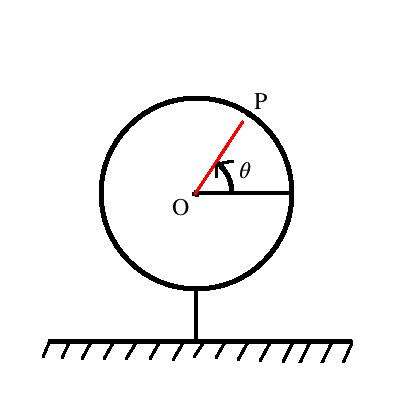
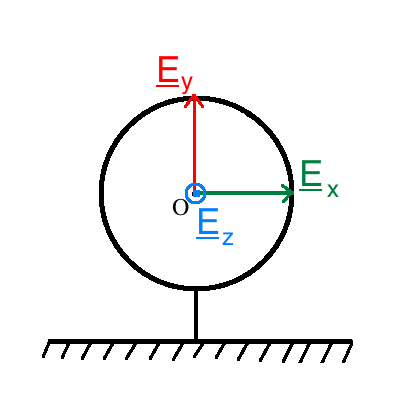
worked on analytical dynamics notes

Changed region(s): [[0.39, 0.12, 0.84, 0.63], [0.63, 0.21, 0.69, 0.27], [0.57, 0.3, 0.63, 0.36]]

diff --git a/notes/analytical_dynamics/analytical_dynamics_main.html b/notes/analytical_dynamics/analytical_dynamics_main.html
@@ -175,7 +175,7 @@ title: Analytical Dynamics
 </blockquote>
 <blockquote>
 <ul>
-<li>First Transport Theorem Example:</li>
+<li><strong>First Transport Theorem Example:</strong></li>
 </ul>
 </blockquote>
 <blockquote>
@@ -233,6 +233,46 @@ height="125"/>
 <li><img style="vertical-align:middle" src="http://chart.apis.google.com/chart?cht=tx&amp;chl=%5Cunderline%7BE%7D_%7By%7D" alt="\underline{E}_{y}" title="\underline{E}_{y}" /> = <img style="vertical-align:middle" src="http://chart.apis.google.com/chart?cht=tx&amp;chl=%5Cunderline%7BE%7D_%7Bz%7D%20%5Ctime%20%5Cunderline%7BE%7D_%7Bx%7D" alt="\underline{E}_{z} \time \underline{E}_{x}" title="\underline{E}_{z} \time \underline{E}_{x}" /></li>
 </ul></li>
 </ul>
+</blockquote>
+</blockquote>
+<div align="center">
+<table class="image">
+<tr>
+<td>
+<img src="./img/ground_ref_frame.png"
+alt="Ground Reference Frame" title="Ground Reference Frame" width="200"
+height="200"/>
+</td>
+</tr>
+</table>
+</div>
+<blockquote>
+<blockquote>
+<ul>
+<li>Now to find the velocity and acceleration of point P in the disk reference frame we take the time derivative of the vector from the origin O to point P (<img style="vertical-align:middle" src="http://chart.apis.google.com/chart?cht=tx&amp;chl=%5Cunderline%7Br%7D%20%3D%20%5Cunderline%7BOP%7D%20%3D%20r%5Cunderline%7Be%7D_%7Br%7D" alt="\underline{r} = \underline{OP} = r\underline{e}_{r}" title="\underline{r} = \underline{OP} = r\underline{e}_{r}" />)
+<ul>
+<li><img style="vertical-align:middle" src="http://chart.apis.google.com/chart?cht=tx&amp;chl=%5E%7BD%7D%5Cunderline%7BV%7D_%7BP%7D%20%3D%20%5Cfrac%7B%5E%7BD%7Dd%5Cunderline%7Br%7D%7D%7Bdt%7D%20%3D%20%20%5Cfrac%7B%5E%7BD%7Dd%7D%7Bdt%7D%28r%5Cunderline%7Be%7D_%7Br%7D%29" alt="^{D}\underline{V}_{P} = \frac{^{D}d\underline{r}}{dt} =  \frac{^{D}d}{dt}(r\underline{e}_{r})" title="^{D}\underline{V}_{P} = \frac{^{D}d\underline{r}}{dt} =  \frac{^{D}d}{dt}(r\underline{e}_{r})" /> <img style="vertical-align:middle" src="http://chart.apis.google.com/chart?cht=tx&amp;chl=%3D%20%20%5Cfrac%7Bdr%7D%7Bdt%7D%5Cunderline%7Be%7D_%7Br%7D%20%2B%20r%5Cfrac%7B%5E%7BD%7Dd%5Cunderline%7Be%7D_%7Br%7D%7D%7Bdt%7D" alt="=  \frac{dr}{dt}\underline{e}_{r} + r\frac{^{D}d\underline{e}_{r}}{dt}" title="=  \frac{dr}{dt}\underline{e}_{r} + r\frac{^{D}d\underline{e}_{r}}{dt}" /></li>
+<li>Neither r nor <img style="vertical-align:middle" src="http://chart.apis.google.com/chart?cht=tx&amp;chl=%5Cunderline%7Be%7D_%7Br%7D" alt="\underline{e}_{r}" title="\underline{e}_{r}" /> are changing in the disk reference frame therefore <img style="vertical-align:middle" src="http://chart.apis.google.com/chart?cht=tx&amp;chl=%5E%7BD%7D%5Cunderline%7BV%7D_%7BP%7D%20%3D%200" alt="^{D}\underline{V}_{P} = 0" title="^{D}\underline{V}_{P} = 0" /></li>
+</ul></li>
+<li>Next the acceleration of point P in the disk reference frame is to be found by taking a time derivative of the velocity of point P in the disk reference frame
+<ul>
+<li><img style="vertical-align:middle" src="http://chart.apis.google.com/chart?cht=tx&amp;chl=%5E%7BD%7D%5Cunderline%7Ba%7D_%7BP%7D%20%3D%20%5Cfrac%7B%5E%7BD%7Dd%7D%7Bdt%7D%28%5E%7BD%7D%5Cunderline%7BV%7D_%7BP%7D%29%20%3D%200" alt="^{D}\underline{a}_{P} = \frac{^{D}d}{dt}(^{D}\underline{V}_{P}) = 0" title="^{D}\underline{a}_{P} = \frac{^{D}d}{dt}(^{D}\underline{V}_{P}) = 0" /></li>
+</ul></li>
+<li>Now the velocity needs to be found for point P in the ground reference frame and two different approaches will be shown</li>
+</ul>
+</blockquote>
+</blockquote>
+<blockquote>
+<blockquote>
+<blockquote>
+<ul>
+<li>First approach involves writing all of the equations with respect to the coordinate system fixed in reference frame G
+<ul>
+<li><img style="vertical-align:middle" src="http://chart.apis.google.com/chart?cht=tx&amp;chl=%5Cunderline%7Br%7D%20%3D%20r%5Cunderline%7Be%7D_%7Br%7D%20%3D%20rcos%28%5Ctheta%29%5Cunderline%7BE%7D_%7Bx%7D%20%2B%20%20rsin%28%5Ctheta%29%5Cunderline%7BE%7D_%7By%7D" alt="\underline{r} = r\underline{e}_{r} = rcos(\theta)\underline{E}_{x} +  rsin(\theta)\underline{E}_{y}" title="\underline{r} = r\underline{e}_{r} = rcos(\theta)\underline{E}_{x} +  rsin(\theta)\underline{E}_{y}" /></li>
+<li><img style="vertical-align:middle" src="http://chart.apis.google.com/chart?cht=tx&amp;chl=%5E%7BG%7D%5Cunderline%7BV%7D_%7BP%7D%20%3D%20%5Cfrac%7B%5E%7BG%7Dd%5Cunderline%7Br%7D%7D%7Bdt%7D" alt="^{G}\underline{V}_{P} = \frac{^{G}d\underline{r}}{dt}" title="^{G}\underline{V}_{P} = \frac{^{G}d\underline{r}}{dt}" /> <img style="vertical-align:middle" src="http://chart.apis.google.com/chart?cht=tx&amp;chl=%3D%20-r%5Cdot%7B%5Ctheta%7Dsin%28%5Ctheta%29%5Cunderline%7BE%7D_%7Bx%7D%20%2B%20r%5Cdot%7B%5Ctheta%7Dcos%28%5Ctheta%29%5Cunderline%7BE%7D_%7By%7D" alt="= -r\dot{\theta}sin(\theta)\underline{E}_{x} + r\dot{\theta}cos(\theta)\underline{E}_{y}" title="= -r\dot{\theta}sin(\theta)\underline{E}_{x} + r\dot{\theta}cos(\theta)\underline{E}_{y}" /></li>
+</ul></li>
+</ul>
+</blockquote>
 </blockquote>
 </blockquote>
 </body>

diff --git a/source/notes/analytical_dynamics/analytical_dynamics_main.md b/source/notes/analytical_dynamics/analytical_dynamics_main.md
@@ -225,7 +225,7 @@
 
 > ### Transport Theorem Examples
 
-> - First Transport Theorem Example:
+> - __First Transport Theorem Example:__
 
 >> - Given a disk (D) rotating about its centerpoint (O), find the velocity and
      acceleration of point P as seen by the disk (D) and the ground (G)
@@ -262,3 +262,33 @@ height="125"/>
 >>      - $\underline{E}_{z}$ = $\underline{e}_{z}$
 >>      - $\underline{E}_{x}$ = along the line $\underline{OP}$ @ $\theta = 0$
 >>      - $\underline{E}_{y}$ = $\underline{E}_{z} \time \underline{E}_{x}$
+
+<div align="center">
+<table class="image">
+<tr><td><img src="./img/ground_ref_frame.png"
+alt="Ground Reference Frame" title="Ground Reference Frame" width="200"
+height="200"/> 
+</td></tr>
+</table>
+</div>
+
+>> - Now to find the velocity and acceleration of point P in the disk reference
+     frame we take the time derivative of the vector from the origin O to point
+     P ($\underline{r} = \underline{OP} = r\underline{e}_{r}$)
+>>      - $^{D}\underline{V}_{P} = \frac{^{D}d\underline{r}}{dt} =
+          \frac{^{D}d}{dt}(r\underline{e}_{r})$ $=
+          \frac{dr}{dt}\underline{e}_{r} + r\frac{^{D}d\underline{e}_{r}}{dt}$
+>>      - Neither r nor $\underline{e}_{r}$ are changing in the disk reference
+          frame therefore $^{D}\underline{V}_{P} = 0$
+>> - Next the acceleration of point P in the disk reference frame is to be
+     found by taking a time derivative of the velocity of point P in the disk
+     reference frame
+>>      - $^{D}\underline{a}_{P} = \frac{^{D}d}{dt}(^{D}\underline{V}_{P}) = 0$
+>> - Now the velocity needs to be found for point P in the ground reference
+     frame and two different approaches will be shown
+
+>>> - First approach involves writing all of the equations with respect to the
+      coordinate system fixed in reference frame G
+>>>     - $\underline{r} = r\underline{e}_{r} = rcos(\theta)\underline{E}_{x} +
+          rsin(\theta)\underline{E}_{y}$
+>>>     - $^{G}\underline{V}_{P} = \frac{^{G}d\underline{r}}{dt}$ $= -r\dot{\theta}sin(\theta)\underline{E}_{x} + r\dot{\theta}cos(\theta)\underline{E}_{y}$
